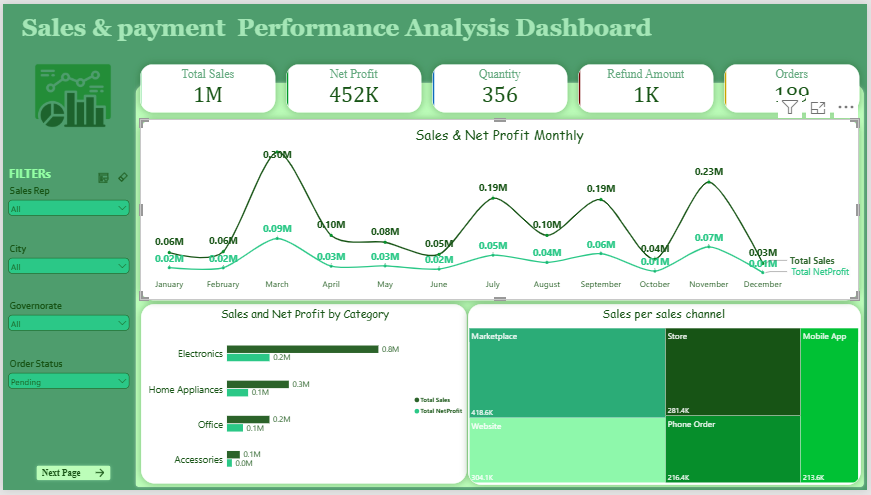
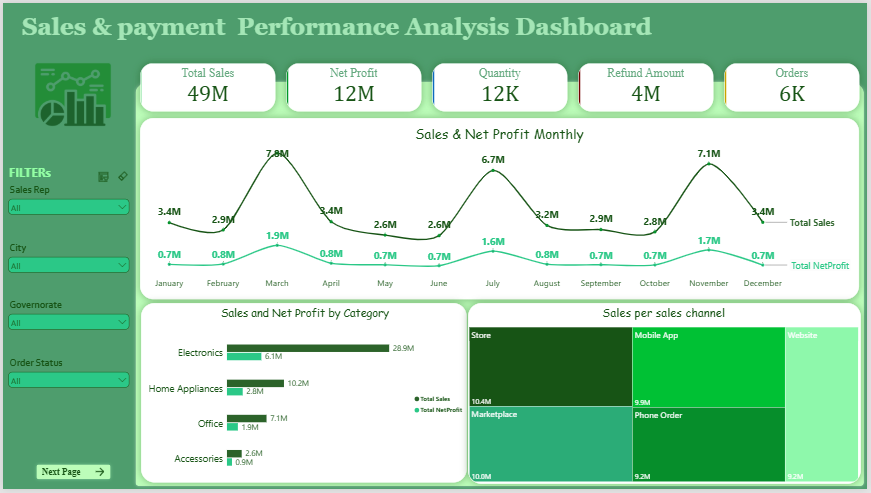
Refresh Power BI screenshots with corrected all-status view

diff --git a/projects/sales-payment-performance/index.html b/projects/sales-payment-performance/index.html
@@ -1,7 +1,7 @@
 <!doctype html>
 <html lang="en"><head><meta charset="utf-8"><meta name="viewport" content="width=device-width,initial-scale=1">
 <title>Sales Performance, Customer Behaviour &amp; Payment Analysis | Ahmed Gaber</title>
-<meta name="description" content="A Power BI case study built from 6,080 sales records: data quality, order-status analysis, discount-adjusted sales, customer, product, channel and payment insights.">
+<meta name="description" content="A two-page Power BI report with corrected all-status dashboard screenshots, sales and profit KPIs, product and channel analysis, customer ranking and payment mix.">
 <style>
 :root{--bg:#edf2ed;--paper:#fff;--ink:#203b2c;--muted:#64766a;--green:#176b3a;--line:#d8e4d9;--pale:#eff6ef}
 *{box-sizing:border-box}body{margin:0;background:var(--bg);color:var(--ink);font:15px/1.72 "Segoe UI",Arial,sans-serif}.wrap{max-width:1120px;margin:auto;padding:30px 22px 65px}.top{display:flex;justify-content:space-between;margin-bottom:22px}.brand{font-weight:800;color:var(--green)}a{color:inherit}.back{color:var(--muted);text-decoration:none;font-size:13px}.hero{background:linear-gradient(125deg,#176b3a,#4b9c70);color:#fff;border-radius:18px;padding:42px}.eyebrow{font-size:10px;letter-spacing:2px;text-transform:uppercase;color:#d7f0dc;font-weight:700}h1{font-size:clamp(30px,5vw,47px);line-height:1.12;margin:12px 0}.hero p{max-width:850px;color:#eff8ef}.meta{display:flex;flex-wrap:wrap;gap:9px;margin-top:22px}.pill{font-size:11px;padding:5px 11px;border:1px solid #b3d8bd;border-radius:30px}section{background:var(--paper);border:1px solid var(--line);border-radius:15px;padding:27px;margin-top:18px}h2{margin:0 0 12px;color:var(--green);font-size:22px}h3{font-size:16px;margin:18px 0 6px}.stats{display:grid;grid-template-columns:repeat(4,1fr);gap:10px}.stat{background:var(--pale);border-radius:11px;padding:15px}.stat strong{display:block;font-size:24px;color:var(--green)}.stat span,.note{font-size:11px;color:var(--muted)}.note{line-height:1.6}.callout{padding:14px 16px;background:var(--pale);border-left:4px solid #4b9c70;border-radius:0 9px 9px 0;margin:15px 0}.warning{background:#fff7e8;border-left-color:#d39a34}.preview{display:block;width:100%;height:auto;border:1px solid var(--line);border-radius:10px;margin:14px 0}ul{padding-left:21px}li{margin:7px 0}.download{display:inline-block;background:#176b3a;color:white;text-decoration:none;padding:12px 18px;border-radius:8px;font-weight:700}.foot{text-align:center;color:var(--muted);font-size:11px;padding:24px}@media(max-width:760px){.wrap{padding:18px 13px 45px}.hero{padding:27px 21px}.stats{grid-template-columns:repeat(2,1fr)}section{padding:19px}}
@@ -10,9 +10,9 @@
 <header class="hero"><div class="eyebrow">Power BI Case Study · 02</div><h1>Sales Performance, Customer Behaviour &amp; Payment Analysis</h1><p>From a messy transactional workbook to a two-page Power BI report: this project explores how sales value is distributed across products, categories, channels and payment methods—and why order status and data quality matter before interpreting any KPI.</p><div class="meta"><span class="pill">Microsoft Power BI</span><span class="pill">Data Quality</span><span class="pill">Sales Analytics</span><span class="pill">Customer Analysis</span><span class="pill">KPI Reporting</span></div></header>
 <section><h2>The business question</h2><p>A sales dashboard should do more than display attractive charts. A manager needs to know what is driving sales, which products and channels contribute most, how customers and payment methods are distributed, and whether the headline figures represent delivered business—or a mixture of delivered, pending, returned and cancelled orders.</p><p>This report was designed around those questions, with filters for sales representative, city, governorate and order status so the user can move from an overall view to a focused operational segment.</p></section>
 <section><h2>Understanding the data before the visuals</h2><p>The supplied workbook contains 6,080 transaction rows across four related sheets: Sales, Customers, Products and Sales Reps. The Sales sheet contains 25 fields spanning order dates, customer and product identifiers, quantities, unit costs and prices, discounts, shipping, channels, payment methods, order status, returns and refunds.</p><div class="stats"><div class="stat"><strong>6,080</strong><span>Sales records inspected</span></div><div class="stat"><strong>6,000</strong><span>Distinct Order IDs</span></div><div class="stat"><strong>899</strong><span>Distinct nonblank customer IDs</span></div><div class="stat"><strong>4</strong><span>Order-status groups after case/space normalization</span></div></div><div class="callout"><strong>Important analytical distinction:</strong> 6,080 is the number of source rows, not the number of unique orders. The source contains 80 repeated Order ID occurrences. A reliable order KPI must use a distinct order count and investigate whether repeated IDs represent split lines, duplicated transactions or a data issue.</div><h3>Data-quality issues identified in the source</h3><ul><li><strong>Inconsistent labels:</strong> status, sales-channel and payment-method values appear with inconsistent capitalization and/or leading or trailing spaces (for example, Delivered/delivered and Store/STORE).</li><li><strong>Repeated identifiers:</strong> 80 rows are beyond the 6,000 distinct Order IDs; duplicates need a business rule before any row-level deduplication.</li><li><strong>Missing fields:</strong> examples include 71 missing Customer IDs, 54 missing Unit Prices, 66 missing Payment Methods, 43 missing Shipping Costs and 62 missing Governorates.</li><li><strong>Returns are a separate financial event:</strong> the source contains refund amounts concentrated in returned orders. Refunds should not be silently mixed into gross sales or treated as a simple deduction without validating the accounting definition.</li><li><strong>Date and text consistency:</strong> Order Date values appear in multiple text/date formats, so date parsing and standardization are prerequisites for trustworthy time trends.</li></ul><p class="note">These are source-level observations, not a claim that every issue has already been fully corrected in the PBIX model. The report should be interpreted with the stated filter context and measure definitions.</p></section>
-<section><h2>How to read the financial numbers</h2><p>To avoid presenting a filtered screenshot as an all-orders result, the source was independently recalculated using explicit definitions. The following are source-level totals across all statuses, not a replacement for the report's DAX measures:</p><div class="stats"><div class="stat"><strong>52.84M</strong><span>Gross line value: quantity × unit price</span></div><div class="stat"><strong>47.50M</strong><span>After line discounts, before refunds and shipping</span></div><div class="stat"><strong>7.18M</strong><span>Recorded refund amounts in source rows</span></div><div class="stat"><strong>6,000</strong><span>Distinct Order IDs across all source rows</span></div></div><p class="note">Amounts are in the workbook's numeric units; no currency label is supplied. The discounted sales figure includes every order status and is not the same as delivered revenue. It is not net of refunds, shipping or cost of goods. These definitions are deliberately explicit so figures are not mistaken for audited financial KPIs.</p><div class="callout warning"><strong>Filter-context disclosure:</strong> the two dashboard screenshots below were captured with the Order Status slicer set to <strong>Pending</strong>. Their charts and KPI cards are therefore filtered views, not all-status totals. The values shown in those images must not be quoted as the overall business result. Select <strong>All</strong> in the PBIX slicer to inspect the complete dataset, or choose a status to investigate that segment.</div></section>
-<section><h2>Report walkthrough</h2><h3>Page 1 — Sales &amp; profit overview</h3><p>Monthly sales and profit trends, category comparisons and sales-channel contribution, with slicers for sales representative, city, governorate and order status. The key analytical use is to compare segments under the same filter context rather than treating every displayed total as an all-orders KPI.</p><img class="preview" src="page-1-sales-overview.png" alt="Power BI sales and profit overview page; screenshot captured with Pending status filter"><h3>Page 2 — Customers, products &amp; payments</h3><p>Top customers by sales, product contribution and payment-method distribution. This view helps identify concentration in customer and product sales and compare payment mix, while retaining the same report filters.</p><img class="preview" src="page-2-customer-payment.png" alt="Power BI customer, product and payment analysis page; screenshot captured with Pending status filter"></section>
+<section><h2>How to read the financial numbers</h2><p>To avoid presenting a filtered screenshot as an all-orders result, the source was independently recalculated using explicit definitions. The following are source-level totals across all statuses, not a replacement for the report's DAX measures:</p><p>The dashboard screenshots have now been refreshed from the corrected PBIX with the report slicers set to <strong>All</strong> (Sales Rep, City, Governorate and Order Status). The KPI cards in this all-status view display the following rounded values:</p><div class="stats"><div class="stat"><strong>49M</strong><span>Total Sales</span></div><div class="stat"><strong>12M</strong><span>Net Profit</span></div><div class="stat"><strong>12K</strong><span>Quantity</span></div><div class="stat"><strong>4M</strong><span>Refund Amount</span></div></div><p class="note">These are the rounded KPI values shown by the Power BI report itself, using its current model and measure definitions. They are not interchangeable with independently recalculated source-workbook totals. No currency unit is stated in the report, so none is assumed here.</p><div class="callout"><strong>Reading the report correctly:</strong> the screenshots show the unfiltered, all-status overview. Use the Order Status slicer to compare Pending, Delivered, Returned and Cancelled orders, and read every KPI and chart in the context of the selected filters. The order card displays 6K (rounded), while the source workbook contains 6,000 distinct Order IDs across 6,080 transaction rows.</div></section>
+<section><h2>Report walkthrough</h2><h3>Page 1 — Sales &amp; profit overview</h3><p>Monthly sales and profit trends, category comparisons and sales-channel contribution, with slicers for sales representative, city, governorate and order status. The key analytical use is to compare segments under the same filter context rather than treating every displayed total as an all-orders KPI.</p><img class="preview" src="page-1-sales-overview.png" alt="Power BI sales and profit overview page with all report slicers set to All"><h3>Page 2 — Customers, products &amp; payments</h3><p>Top customers by sales, product contribution and payment-method distribution. This view helps identify concentration in customer and product sales and compare payment mix, while retaining the same report filters.</p><img class="preview" src="page-2-customer-payment.png" alt="Power BI customer, product and payment analysis page with all report slicers set to All"></section>
 <section><h2>What this analysis is intended to help answer</h2><ul><li>Which product categories and individual products contribute most to sales value?</li><li>How does the sales mix differ across store, marketplace, website, mobile app and phone orders?</li><li>Which customers account for the largest share of recorded sales?</li><li>How are payment methods distributed, and where are payment fields missing or inconsistently labelled?</li><li>How do pending, delivered, returned and cancelled orders change the interpretation of sales and profit?</li><li>Which data-quality exceptions should be resolved before management relies on the KPIs?</li></ul></section>
-<section><h2>Download the Power BI report</h2><p>Open the PBIX in Power BI Desktop to explore the pages and change the slicers. Start with Order Status = All when you want to inspect the complete source population; then select a specific status for operational analysis.</p><p><a class="download" href="sales-payment-performance.pbix" download>Download Power BI file (.pbix) ↓</a></p><p class="note">The portfolio shares the PBIX report and dashboard previews. The original source workbook is not included in the public download.</p></section>
+<section><h2>Download the Power BI report</h2><p>Open the PBIX in Power BI Desktop to explore the pages and change the slicers. The supplied screenshots show Order Status = All. Open the report in Power BI Desktop to select individual statuses and explore the corresponding operational segments.</p><p><a class="download" href="sales-payment-performance.pbix" download>Download Power BI file (.pbix) ↓</a></p><p class="note">The portfolio shares the PBIX report and dashboard previews. The original source workbook is not included in the public download.</p></section>
 <section><h2>Skills demonstrated</h2><ul><li>Multi-page Power BI report design and business-focused visual hierarchy.</li><li>Sales, product, customer, channel and payment analysis.</li><li>KPI interpretation with explicit filter-context awareness.</li><li>Source-data profiling: missing values, repeated identifiers and inconsistent categories.</li><li>Translating transactional data into questions relevant to commercial operations.</li></ul></section>
 <div class="foot">Ahmed Gaber · Data Analytics Portfolio</div></main></body></html>
